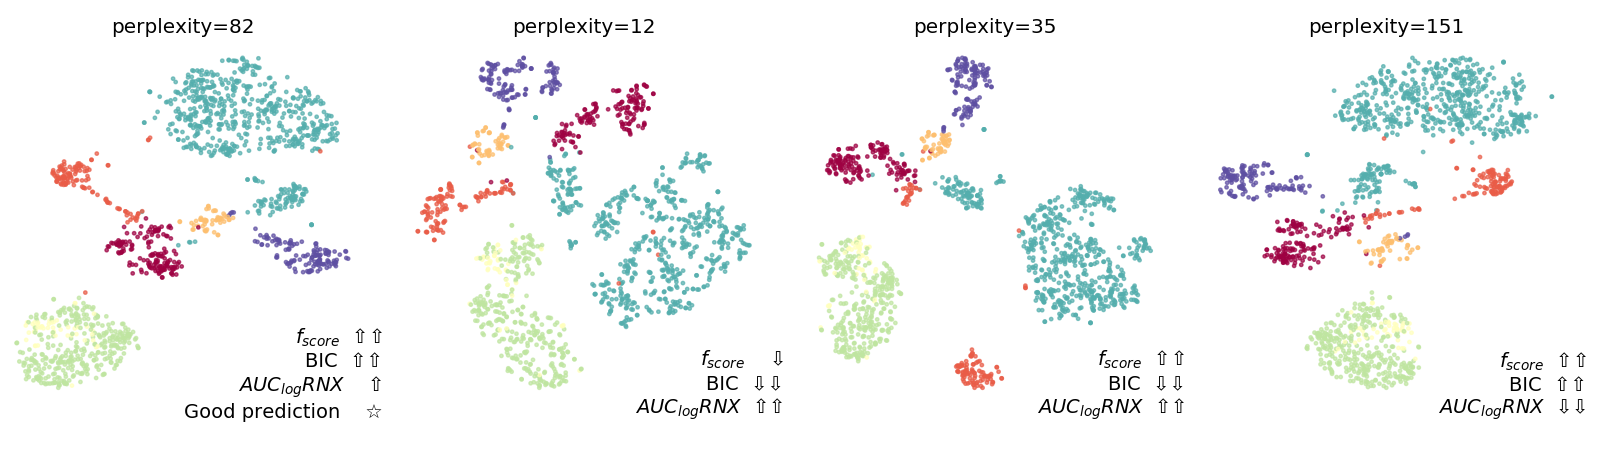
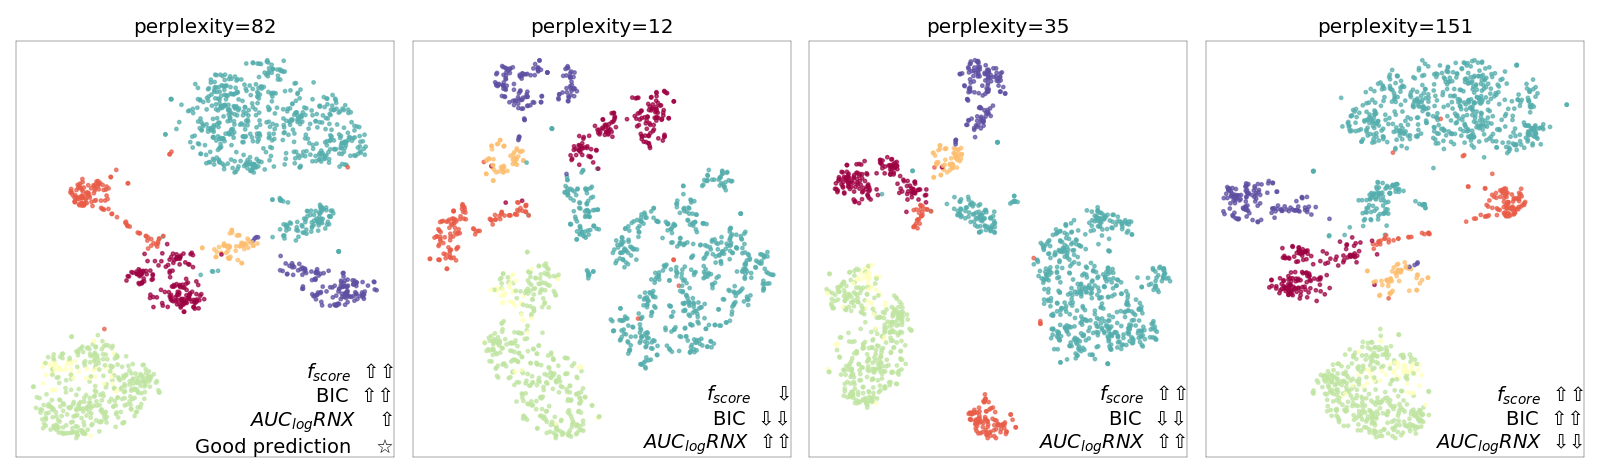
WIP update figures for review w. Adrien

diff --git a/tex/v1.tex b/tex/v1.tex
@@ -846,45 +846,93 @@ Our idea is to use the pairwise constraint to modify the kernel in the covarianc
 \end{figure*}
 
 
-
 \begin{figure*}
 \centering
-\includegraphics[width=\textwidth]{{DIGITS_umap_metamap}.png}
-\caption{Metamap for umap embeddings of DIGITS dataset.}
+\begin{subfigure}[b]{\textwidth}
+    \centering
+    \includegraphics[width=\textwidth]{{COIL20_umap_metamap}.png}
+    \caption{Metamap for UMAP embeddings of COIL20 dataset.}
+\end{subfigure}
+~
+\begin{subfigure}[b]{\textwidth}
+    \includegraphics[width=\textwidth]{COIL20_umap_show}
+    \caption{Sample vizs COIL20}
+\end{subfigure}
 \end{figure*}
 
 
 \begin{figure*}
 \centering
-\includegraphics[width=\textwidth]{{COIL20_umap_metamap}.png}
-\caption{Metamap for umap embeddings of COIL20 dataset.}
+\begin{subfigure}[b]{\textwidth}
+    \centering
+    \includegraphics[width=\textwidth]{{FASHION1000_umap_metamap}.png}
+    \caption{Metamap for UMAP embeddings of FASHION1000 dataset.}
+\end{subfigure}
+~
+\begin{subfigure}[b]{\textwidth}
+    \includegraphics[width=\textwidth]{FASHION1000_umap_show}
+    \caption{Sample vizs FASHION1000}
+\end{subfigure}
 \end{figure*}
 
 
 \begin{figure*}
 \centering
-\includegraphics[width=\textwidth]{{FASHION1000_umap_metamap}.png}
-\caption{Metamap for umap embeddings of FASHION1000 dataset.}
+\begin{subfigure}[b]{\textwidth}
+    \centering
+    \includegraphics[width=\textwidth]{{DIGITS_umap_metamap}.png}
+    \caption{Metamap for UMAP embeddings of DIGITS dataset.}
+\end{subfigure}
+~
+\begin{subfigure}[b]{\textwidth}
+    \includegraphics[width=\textwidth]{DIGITS_umap_show}
+    \caption{Sample vizs DIGITS}
+\end{subfigure}
 \end{figure*}
 
 
 \begin{figure*}
 \centering
-\includegraphics[width=\textwidth]{{FASHION_MOBILENET_umap_metamap}.png}
-\caption{Metamap for umap embeddings of FASHION\_MOBILENET dataset.}
+\begin{subfigure}[b]{\textwidth}
+    \centering
+    \includegraphics[width=\textwidth]{{FASHION_MOBILENET_umap_metamap}.png}
+    \caption{Metamap for UMAP embeddings of FASHION\_MOBILENET dataset.}
+\end{subfigure}
+~
+\begin{subfigure}[b]{\textwidth}
+    % \includegraphics[width=\textwidth]{FASHION_MOBILENET_umap_show}
+    \caption{Sample vizs FASHION\_MOBILENET}
+\end{subfigure}
 \end{figure*}
 
 
 \begin{figure*}
 \centering
-\includegraphics[width=\textwidth]{{20NEWS5_umap_metamap}.png}
-\caption{Metamap for umap embeddings of 20NEWS5 dataset.}
+\begin{subfigure}[b]{\textwidth}
+    \centering
+    \includegraphics[width=\textwidth]{{20NEWS5_umap_metamap}.png}
+    \caption{Metamap for UMAP embeddings of 20NEWS5 dataset.}
+\end{subfigure}
+~
+\begin{subfigure}[b]{\textwidth}
+    % \includegraphics[width=\textwidth]{20NEWS5_umap_show}
+    \caption{Sample vizs 20NEWS5}
+\end{subfigure}
 \end{figure*}
+
 
 
 \begin{figure*}
 \centering
-\includegraphics[width=\textwidth]{{NEURON_1K_umap_metamap}.png}
-\caption{Metamap for umap embeddings of NEURON\_1K dataset.}
+\begin{subfigure}[b]{\textwidth}
+    \centering
+    \includegraphics[width=\textwidth]{{NEURON_1K_umap_metamap}.png}
+    \caption{Metamap for UMAP embeddings of NEURON\_1K dataset.}
+\end{subfigure}
+~
+\begin{subfigure}[b]{\textwidth}
+    % \includegraphics[width=\textwidth]{NEURON_1K_umap_show}
+    \caption{Sample vizs NEURON\_1K}
+\end{subfigure}
 \end{figure*}
 

diff --git a/code/plot_viz.py b/code/plot_viz.py
@@ -139,7 +139,8 @@ def _simple_scatter_with_colorbar(
     if debug_label and not plot_for_score_values:
         # debug show param in the metmap
         for s, (x, y) in zip(labels, Z):
-            ax.text(x=x, y=y, s=str(int(math.exp(s))), fontsize=10)
+            # ax.text(x=x, y=y, s=str(int(math.exp(s))), fontsize=10)
+            pass
 
 
 def _scatter_with_colorbar_and_legend_size(
@@ -182,7 +183,7 @@ def _scatter_with_colorbar_and_legend_size(
         Z[:, 1],
         c=labels,
         s=sizes,
-        alpha=0.35 if plot_for_score_values else 0.18,
+        alpha=0.35 if plot_for_score_values else 0.8,
         cmap=cmap,
         norm=norm,
         edgecolor="black",
@@ -224,7 +225,8 @@ def _scatter_with_colorbar_and_legend_size(
         # debug show param in the metmap
         for i, (p1, p2, (x, y)) in enumerate(zip(labels, sizes, Z)):
             if i % 72 == 0:
-                ax.text(x=x, y=y, s=str(i), fontsize=15, color="blue")
+                # ax.text(x=x, y=y, s=str(i), fontsize=15, color="blue")
+                pass
         # test_idx = [170]
         # print(labels[test_idx], sizes[test_idx])
 
